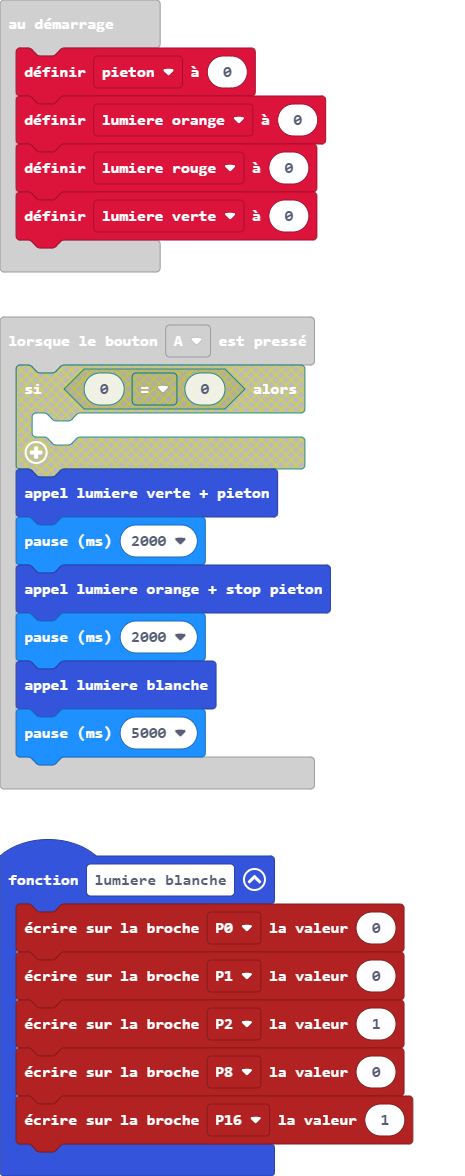
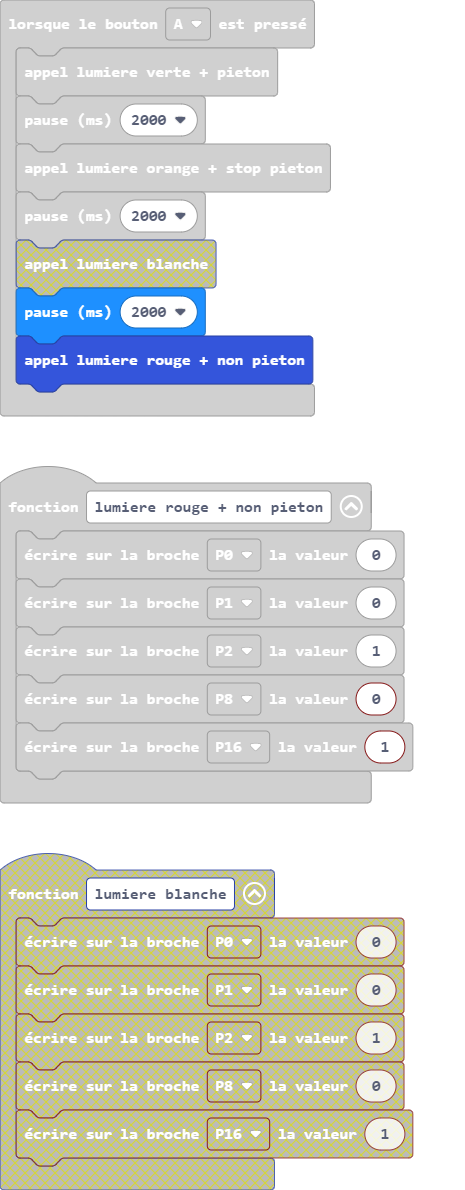
Mise à jour main.blocks, main.ts

diff --git a/main.ts b/main.ts
@@ -1,10 +1,3 @@
-function lumiere_blanche () {
-    pins.digitalWritePin(DigitalPin.P0, 0)
-    pins.digitalWritePin(DigitalPin.P1, 0)
-    pins.digitalWritePin(DigitalPin.P2, 1)
-    pins.digitalWritePin(DigitalPin.P8, 0)
-    pins.digitalWritePin(DigitalPin.P16, 1)
-}
 function lumiere_verte__pieton () {
     pins.digitalWritePin(DigitalPin.P0, 1)
     pins.digitalWritePin(DigitalPin.P1, 0)
@@ -17,8 +10,8 @@ input.onButtonPressed(Button.A, function () {
     basic.pause(2000)
     lumiere_orange__stop_pieton()
     basic.pause(2000)
-    lumiere_blanche()
-    basic.pause(5000)
+    lumiere_rouge__non_pieton()
+    basic.pause(2000)
 })
 function lumiere_stop_pour_les_pieton () {
     pins.digitalWritePin(DigitalPin.P0, 0)
@@ -38,8 +31,8 @@ function lumiere_rouge__non_pieton () {
     pins.digitalWritePin(DigitalPin.P0, 0)
     pins.digitalWritePin(DigitalPin.P1, 0)
     pins.digitalWritePin(DigitalPin.P2, 1)
-    pins.digitalWritePin(DigitalPin.P8, 1)
-    pins.digitalWritePin(DigitalPin.P16, 0)
+    pins.digitalWritePin(DigitalPin.P8, 0)
+    pins.digitalWritePin(DigitalPin.P16, 1)
 }
 let pieton = 0
 let lumiere_orange = 0
